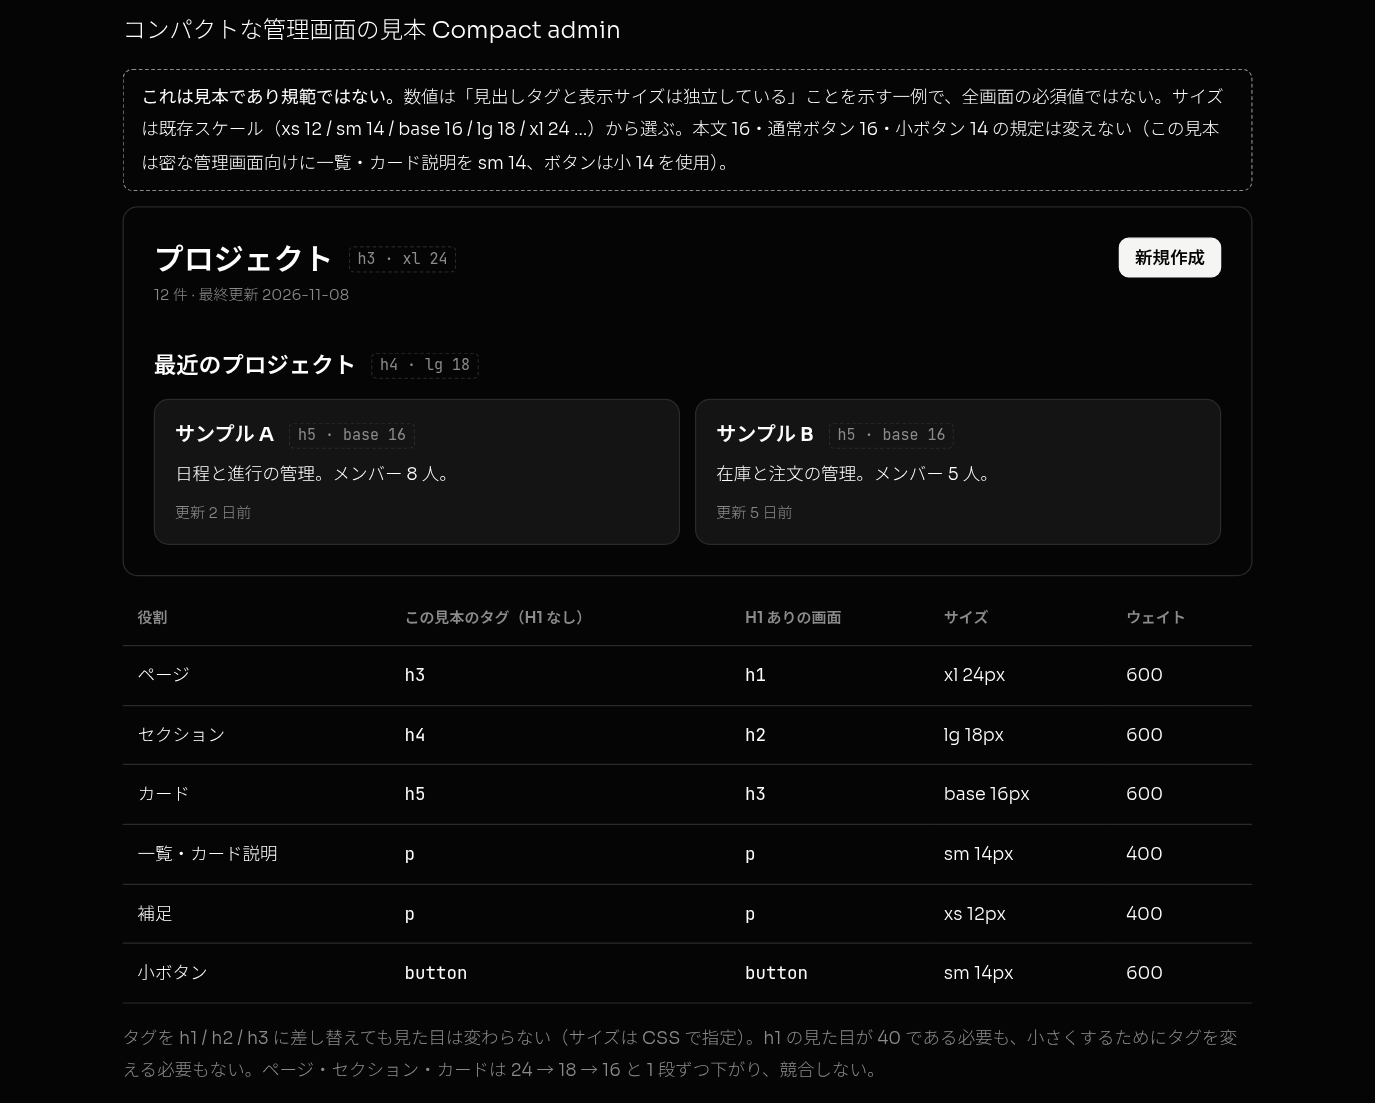
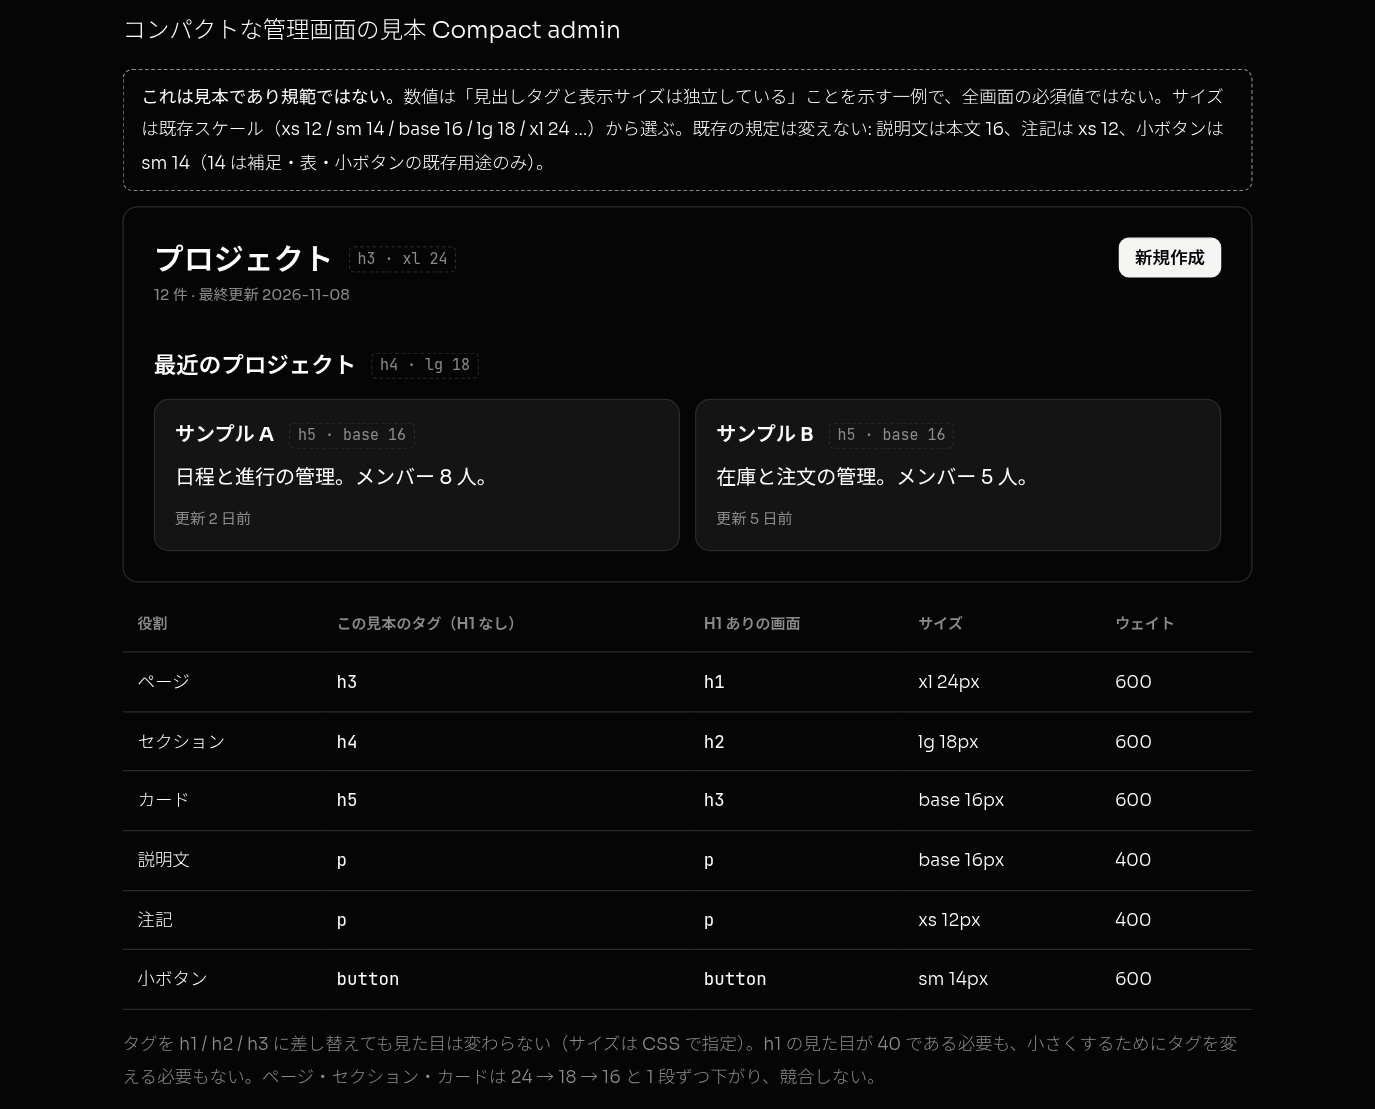
fix: 管理画面見本の説明文を16pxにし、見出しのリセットを役割クラスへ移す (#2)

diff --git a/tokens-preview.html b/tokens-preview.html
@@ -85,7 +85,7 @@ pre{background:var(--bone);border:1px solid var(--border);border-radius:10px;pad
 const theme = { ink: "#050505", bone: "#f5f5f4" };
 export function accent(t) { return t.ink; } // 0O 1lI</code></pre></div>
 <h3 id="heading-compact">コンパクトな管理画面の見本 Compact admin</h3>
-<p class="rule"><strong>これは見本であり規範ではない。</strong>数値は「見出しタグと表示サイズは独立している」ことを示す一例で、全画面の必須値ではない。サイズは既存スケール（xs 12 / sm 14 / base 16 / lg 18 / xl 24 …）から選ぶ。本文 16・通常ボタン 16・小ボタン 14 の規定は変えない（この見本は密な管理画面向けに一覧・カード説明を sm 14、ボタンは小 14 を使用）。</p>
+<p class="rule"><strong>これは見本であり規範ではない。</strong>数値は「見出しタグと表示サイズは独立している」ことを示す一例で、全画面の必須値ではない。サイズは既存スケール（xs 12 / sm 14 / base 16 / lg 18 / xl 24 …）から選ぶ。既存の規定は変えない: 説明文は本文 16、注記は xs 12、小ボタンは sm 14（14 は補足・表・小ボタンの既存用途のみ）。</p>
 <div class="adm" role="group" aria-label="コンパクトな管理画面の見本">
 <div class="adm-hd"><div><div class="hrow"><h3 class="pg-t">プロジェクト</h3><code class="tg" aria-hidden="true">h3 · xl 24</code></div><p class="cap">12 件 · 最終更新 2026-11-08</p></div><button type="button" class="abtn">新規作成</button></div>
 <div class="hrow sec-row"><h4 class="sec-t">最近のプロジェクト</h4><code class="tg" aria-hidden="true">h4 · lg 18</code></div>
@@ -95,8 +95,8 @@ export function accent(t) { return t.ink; } // 0O 1lI</code></pre></div>
 <tr><td>ページ</td><td><code>h3</code></td><td><code>h1</code></td><td>xl 24px</td><td>600</td></tr>
 <tr><td>セクション</td><td><code>h4</code></td><td><code>h2</code></td><td>lg 18px</td><td>600</td></tr>
 <tr><td>カード</td><td><code>h5</code></td><td><code>h3</code></td><td>base 16px</td><td>600</td></tr>
-<tr><td>一覧・カード説明</td><td><code>p</code></td><td><code>p</code></td><td>sm 14px</td><td>400</td></tr>
-<tr><td>補足</td><td><code>p</code></td><td><code>p</code></td><td>xs 12px</td><td>400</td></tr>
+<tr><td>説明文</td><td><code>p</code></td><td><code>p</code></td><td>base 16px</td><td>400</td></tr>
+<tr><td>注記</td><td><code>p</code></td><td><code>p</code></td><td>xs 12px</td><td>400</td></tr>
 <tr><td>小ボタン</td><td><code>button</code></td><td><code>button</code></td><td>sm 14px</td><td>600</td></tr></tbody></table></div>
 <p class="mute" style="font-size:14px">タグを h1 / h2 / h3 に差し替えても見た目は変わらない（サイズは CSS で指定）。h1 の見た目が 40 である必要も、小さくするためにタグを変える必要もない。ページ・セクション・カードは 24 → 18 → 16 と 1 段ずつ下がり、競合しない。</p>
 <style>
@@ -113,17 +113,17 @@ export function accent(t) { return t.ink; } // 0O 1lI</code></pre></div>
 .lr{list-style:none;padding:0;margin:0;font-size:14px}.lr li{min-height:var(--list-row-h);padding:0 var(--list-row-pad-x);display:flex;justify-content:space-between;align-items:center;border-bottom:var(--list-divider)}.lr li:last-child{border-bottom:0}
 .l2{list-style:none;padding:0;margin:0;display:grid;gap:var(--list-two-line-gap)}.l2 .t{font-size:14px}.l2 .c{font-size:12px;color:var(--mute);margin-top:var(--list-title-caption-gap)}
 .adm{background:var(--bone);border:1px solid var(--border);border-radius:var(--r-lg,12px);padding:24px;margin-top:12px}
-.adm h3,.adm h4,.adm h5{font-weight:600;margin:0}
+.adm .pg-t,.adm .sec-t,.adm .cd-t{font-weight:600;letter-spacing:normal;margin:0}
 .adm .hrow{display:flex;align-items:center;flex-wrap:wrap;gap:4px 12px}
 .adm .tg{font-size:12px;line-height:1.6;color:var(--mute);border:1px dashed var(--border);border-radius:4px;padding:0 6px;white-space:nowrap}
 .adm .adm-hd{display:flex;justify-content:space-between;align-items:flex-start;gap:12px;flex-wrap:wrap}
 .adm .pg-t{font-size:24px;line-height:1.5}
 .adm .sec-row{margin-top:32px}.adm .sec-t{font-size:18px;line-height:1.7}
-.adm .cap{font-size:12px;line-height:1.6;color:var(--mute);margin:0}
+.adm .cap{font-size:12px;line-height:1.6;font-weight:400;color:var(--mute);margin:0}
 .adm .adm-grid{display:grid;grid-template-columns:repeat(auto-fit,minmax(220px,1fr));gap:var(--gap-grid-dense,12px);margin-top:12px}
 .adm .cd{background:var(--surface);border:1px solid var(--border);border-radius:var(--r-lg,12px);padding:16px}
 .adm .cd-t{font-size:16px;line-height:1.5}
-.adm .cd p:not(.cap){font-size:14px;line-height:1.7;margin:8px 0 0}.adm .cd .cap{margin-top:8px}
+.adm .cd p:not(.cap){font-size:16px;line-height:1.8;font-weight:400;margin:8px 0 0}.adm .cd .cap{margin-top:8px}
 .adm .abtn{font:600 14px/1 Sora,"Noto Sans JP",sans-serif;height:32px;padding:0 12px;border-radius:var(--r-md,8px);border:1px solid var(--accent);background:var(--accent);color:var(--bone);cursor:pointer}
 </style>
 <section class="ui" id="spacing-recipes">
